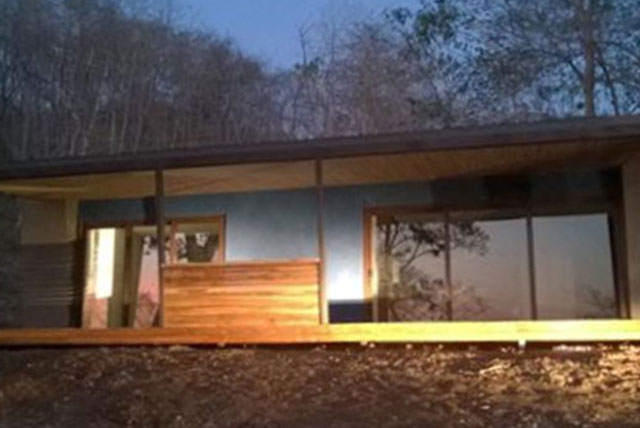
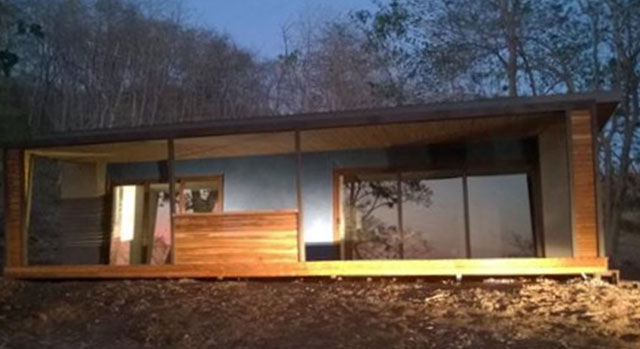
carousel thumbnails

diff --git a/templates/frame/css/bundle.css b/templates/frame/css/bundle.css
@@ -394,13 +394,16 @@ button,input[type=submit]{background:rojo;border:none;clear:both;color:#fff;curs
 .project-content{margin-bottom:20px}
 .project-share a{display:inline-block;padding:.5em;color:#787878;font-size:1.5em;vertical-align:middle}
 .project-gallery{height:98px;margin-top:1em}
-.project-gallery img{width:auto;cursor:pointer;float:left}
+.project-gallery img{width:auto}
 .project-item{display:inline-block;width:130px;height:88px;padding:.5em}
 .project .cycle-next,.project .cycle-prev{font-size:2em;color:#fff;background:rgba(0,0,0,.4);padding:.5em;cursor:pointer;position:absolute;top:40%;z-index:200}
 .project .cycle-next:hover,.project .cycle-prev:hover{background:rgba(0,0,0,.8)}
 .project .cycle-prev{left:0}
 .project .cycle-next{right:0}
+.project .cycle-pager-active:after{background:0 0!important}
 .project .thumbnails-wrapper{position:relative;height:100%;width:100%;overflow:hidden}
+.project .thumbnail{display:block;cursor:pointer;float:left;position:relative}
+.project .thumbnail:after{position:absolute;content:'';width:100%;height:90%;left:0;right:0;top:0;bottom:0;background:rgba(0,0,0,.5);-webkit-transition:all .3s ease;-moz-transition:all .3s ease;-o-transition:all .3s ease;-ms-transition:all .3s ease;transition:all .3s ease}
 .footer{background:#2c323b;overflow:hidden;padding:1em 0}
 .footer-logo{float:left;margin-top:10px}
 .footer-copyright{color:#b6cde9;float:right;font-size:13px}

diff --git a/templates/frame/assets/css/main.css b/templates/frame/assets/css/main.css
@@ -1079,8 +1079,6 @@ input[type="submit"] {
 }
 .project {
   text-align: center;
-/*.cycle-pager-active
-		border 1px solid red*/
 }
 .project-detail {
   clear: both;
@@ -1114,8 +1112,6 @@ input[type="submit"] {
 }
 .project-gallery img {
   width: auto;
-  cursor: pointer;
-  float: left;
 }
 .project-item {
   display: inline-block;
@@ -1144,11 +1140,36 @@ input[type="submit"] {
 .project .cycle-next {
   right: 0;
 }
+.project .cycle-pager-active:after {
+  background: rgba(0,0,0,0) !important;
+}
 .project .thumbnails-wrapper {
   position: relative;
   height: 100%;
   width: 100%;
   overflow: hidden;
+}
+.project .thumbnail {
+  display: block;
+  cursor: pointer;
+  float: left;
+  position: relative;
+}
+.project .thumbnail:after {
+  position: absolute;
+  content: '';
+  width: 100%;
+  height: 90%;
+  left: 0;
+  right: 0;
+  top: 0;
+  bottom: 0;
+  background: rgba(0,0,0,0.5);
+  -webkit-transition: all 0.3s ease;
+  -moz-transition: all 0.3s ease;
+  -o-transition: all 0.3s ease;
+  -ms-transition: all 0.3s ease;
+  transition: all 0.3s ease;
 }
 .footer {
   background: #2c323b;
